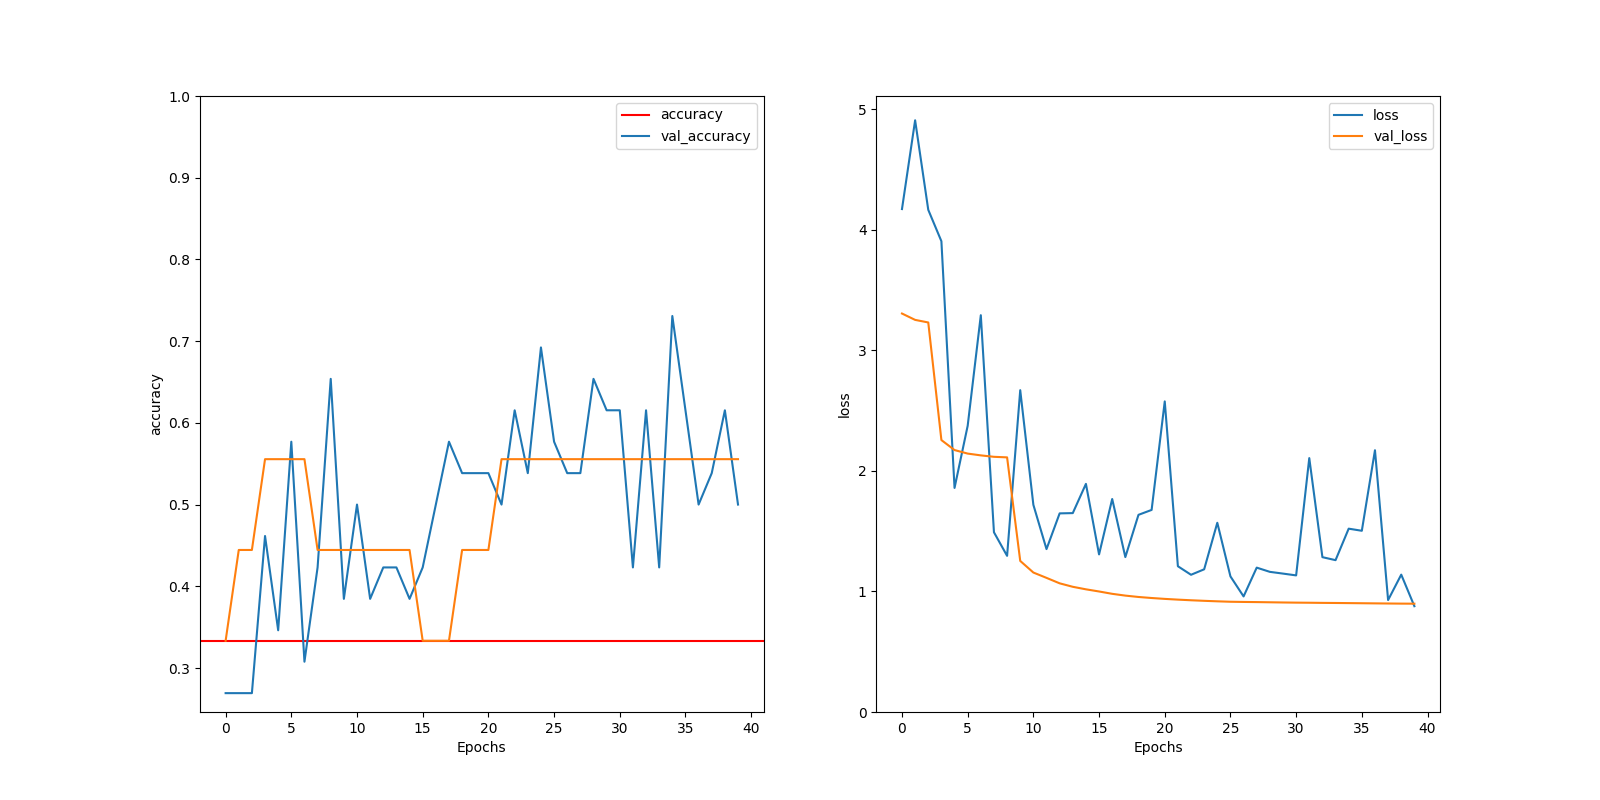
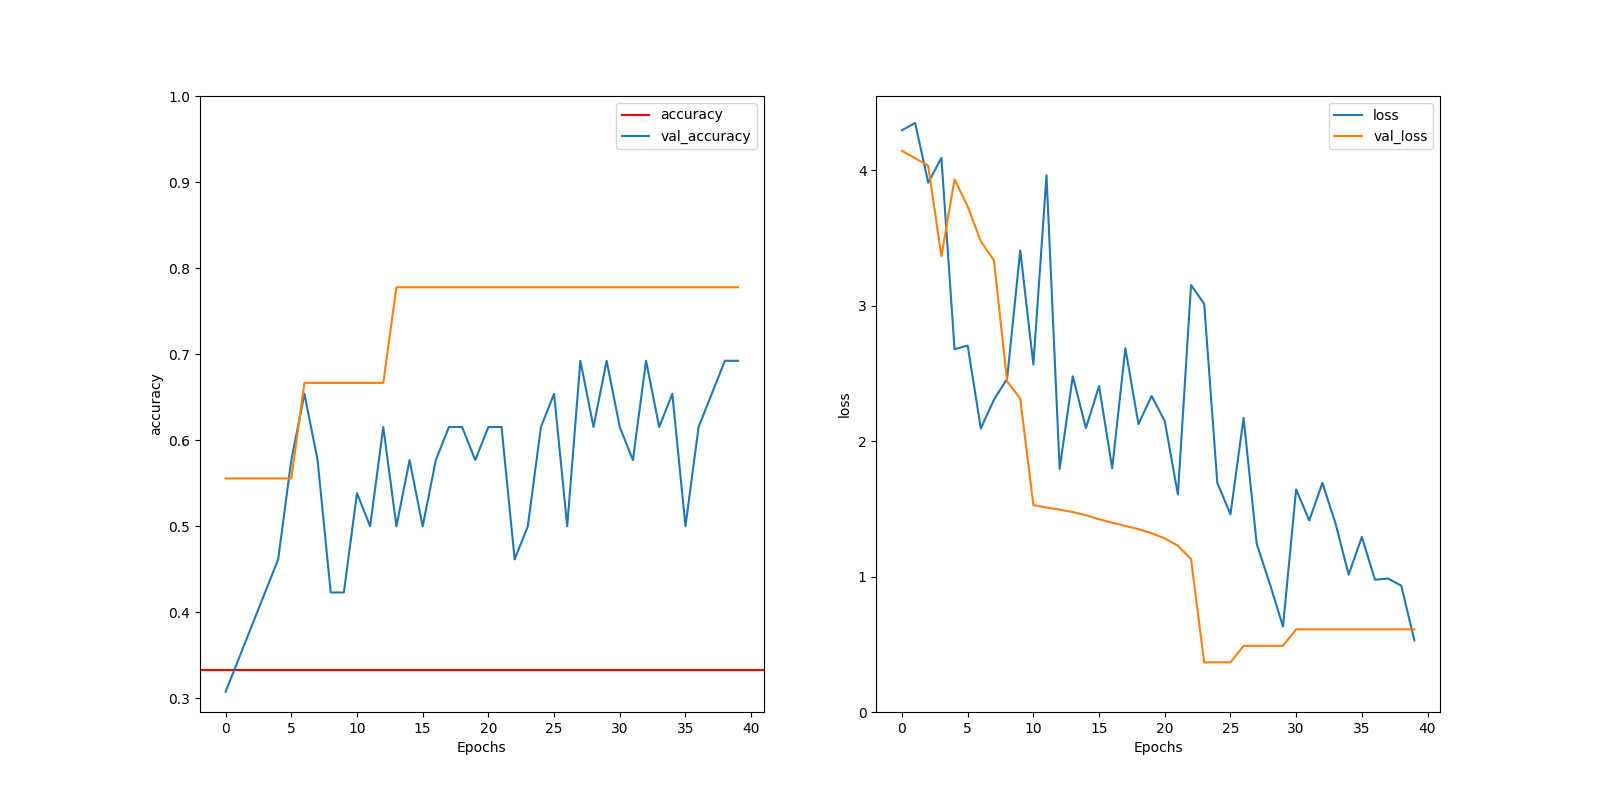
Increase vocab size, shuffle input data
Also updated sample results image!

diff --git a/trainingData.py b/trainingData.py
@@ -15,4 +15,7 @@ def loadData():
 ##        print("Question: ", text_batch.numpy()[i][:20])
 ##        print("Label:", label_batch.numpy()[i])
 
-    return raw_train_ds, raw_test_ds
+    train_len = len(raw_train_ds)
+    test_len = len(raw_test_ds)
+
+    return raw_train_ds.shuffle(train_len), raw_test_ds.shuffle(test_len)

diff --git a/neuralNet.py b/neuralNet.py
@@ -14,7 +14,7 @@ def plot_graphs(history, metric):
   plt.ylabel(metric)
   plt.legend([metric, 'val_'+metric])
 
-VOCAB_SIZE = 1000
+VOCAB_SIZE = 10000
 #MAX_SEQUENCE_LENGTH = 1000
 NUM_LANGUAGES = len(trainingData.language_map)
 
